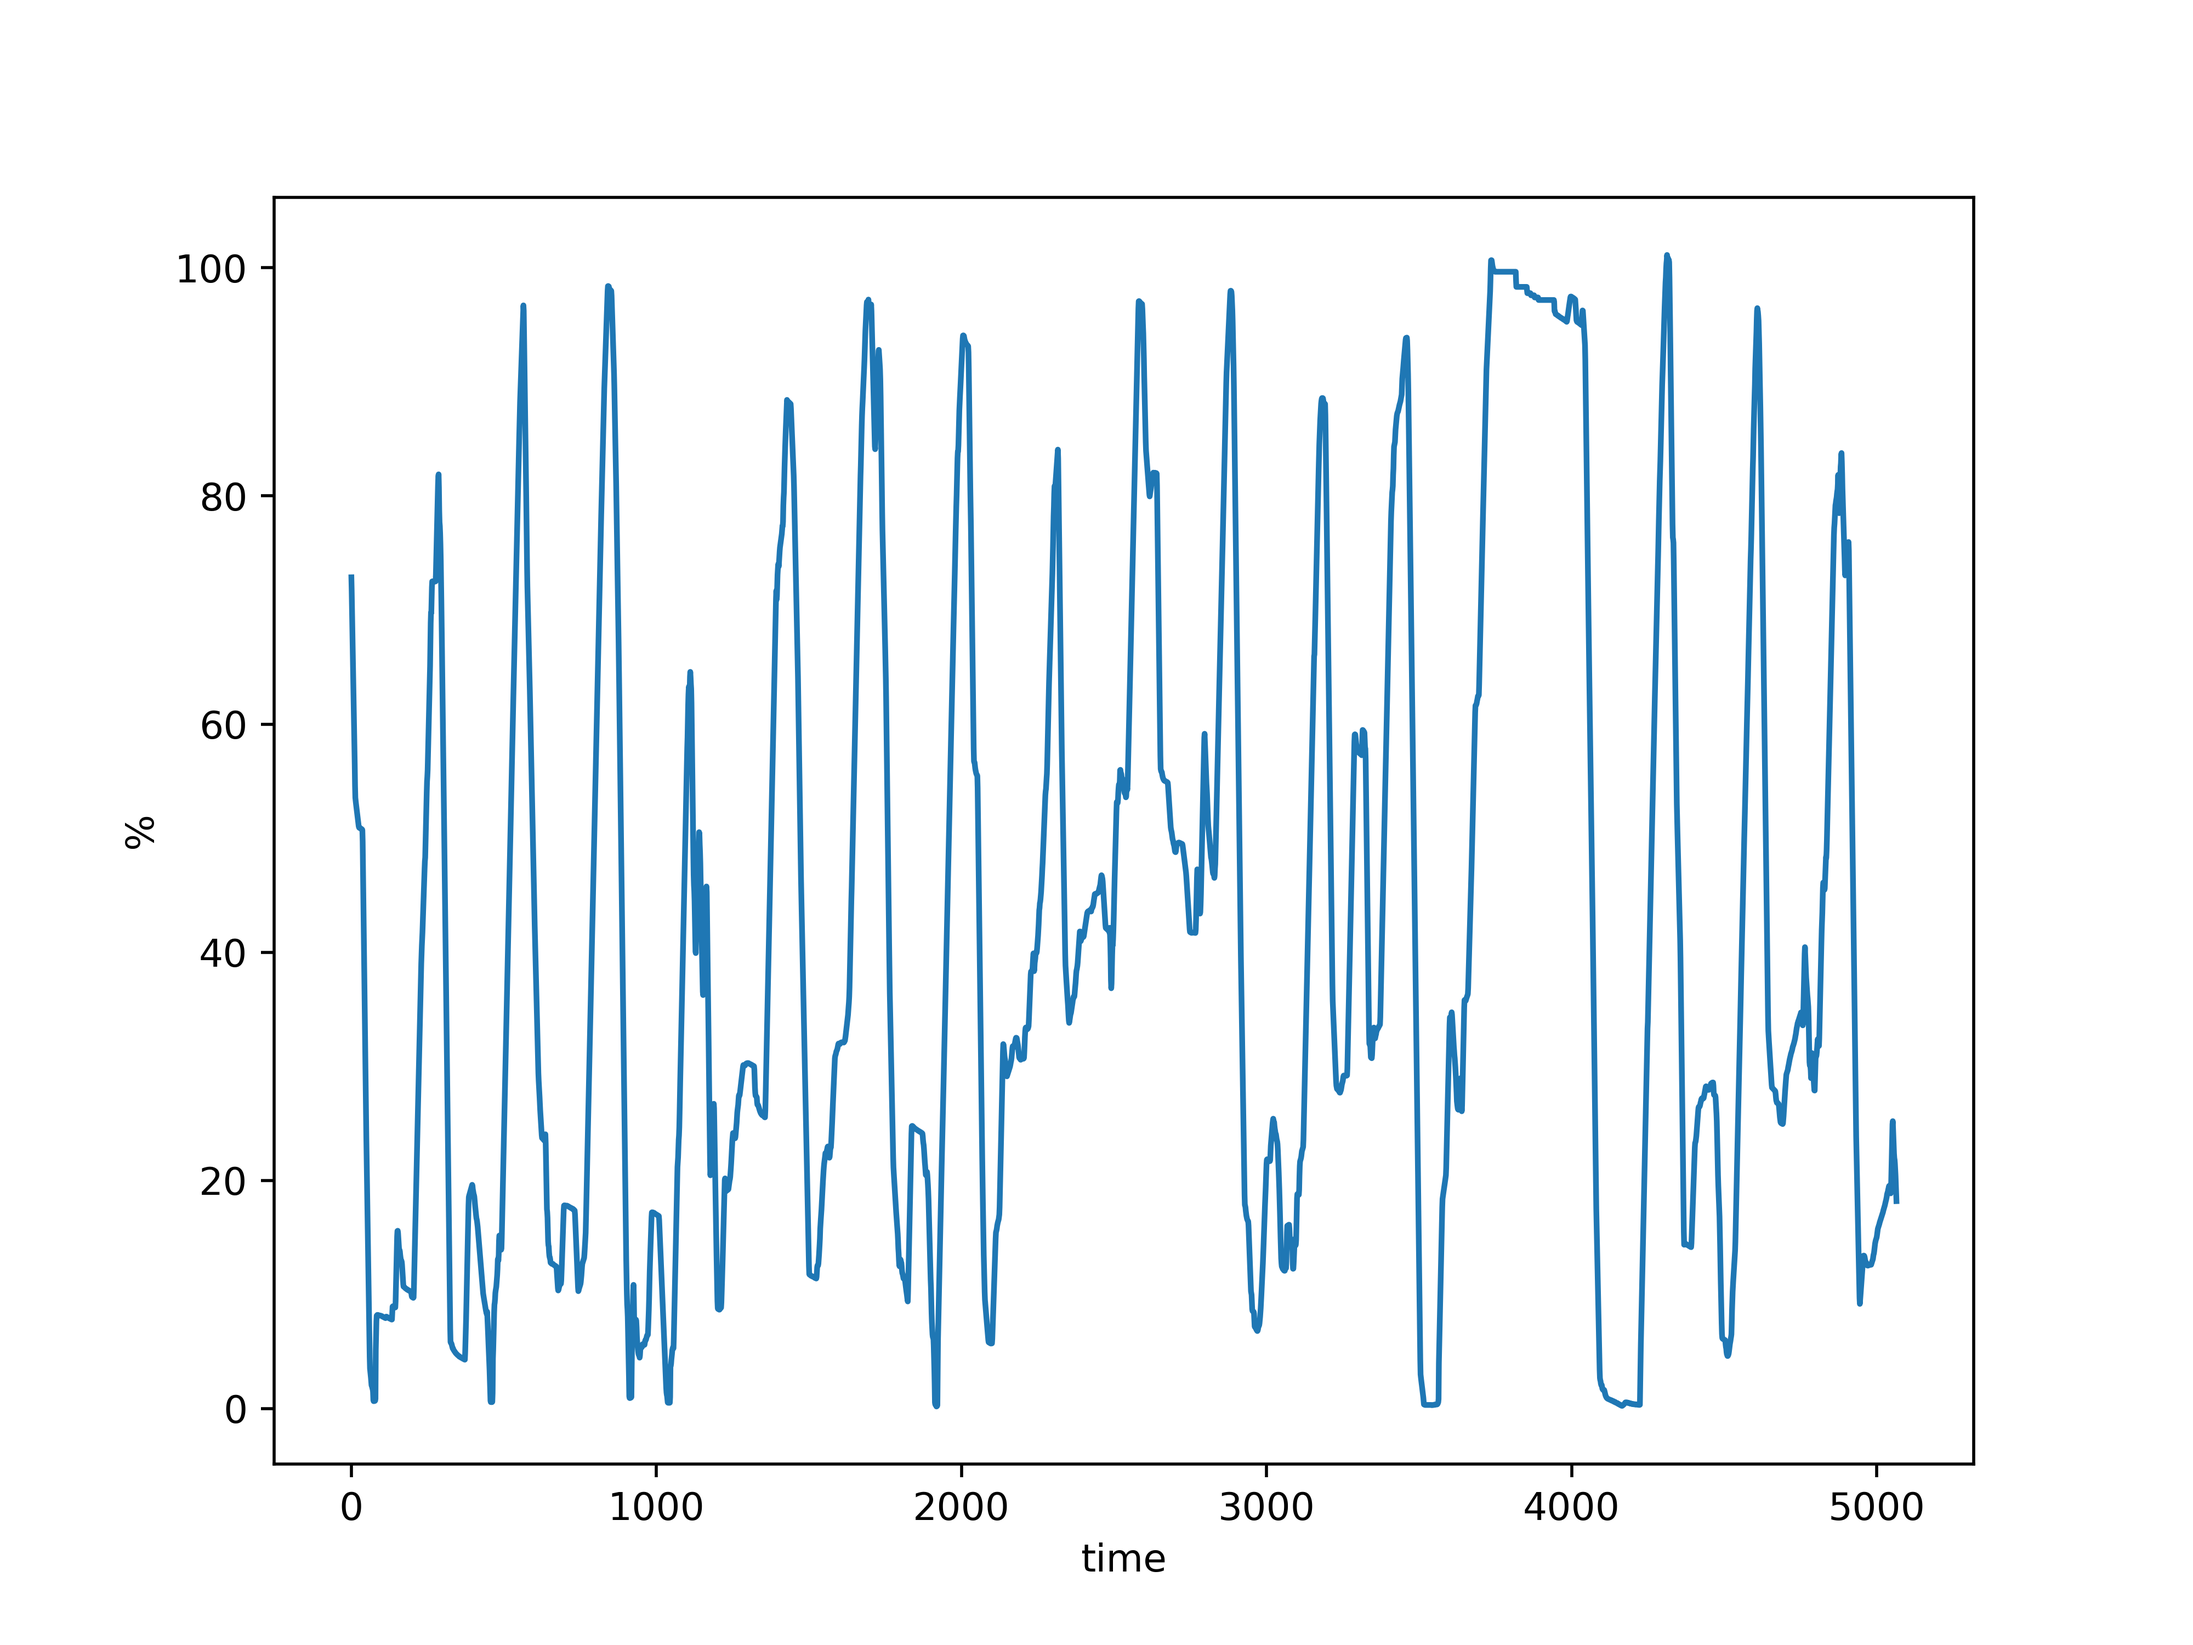
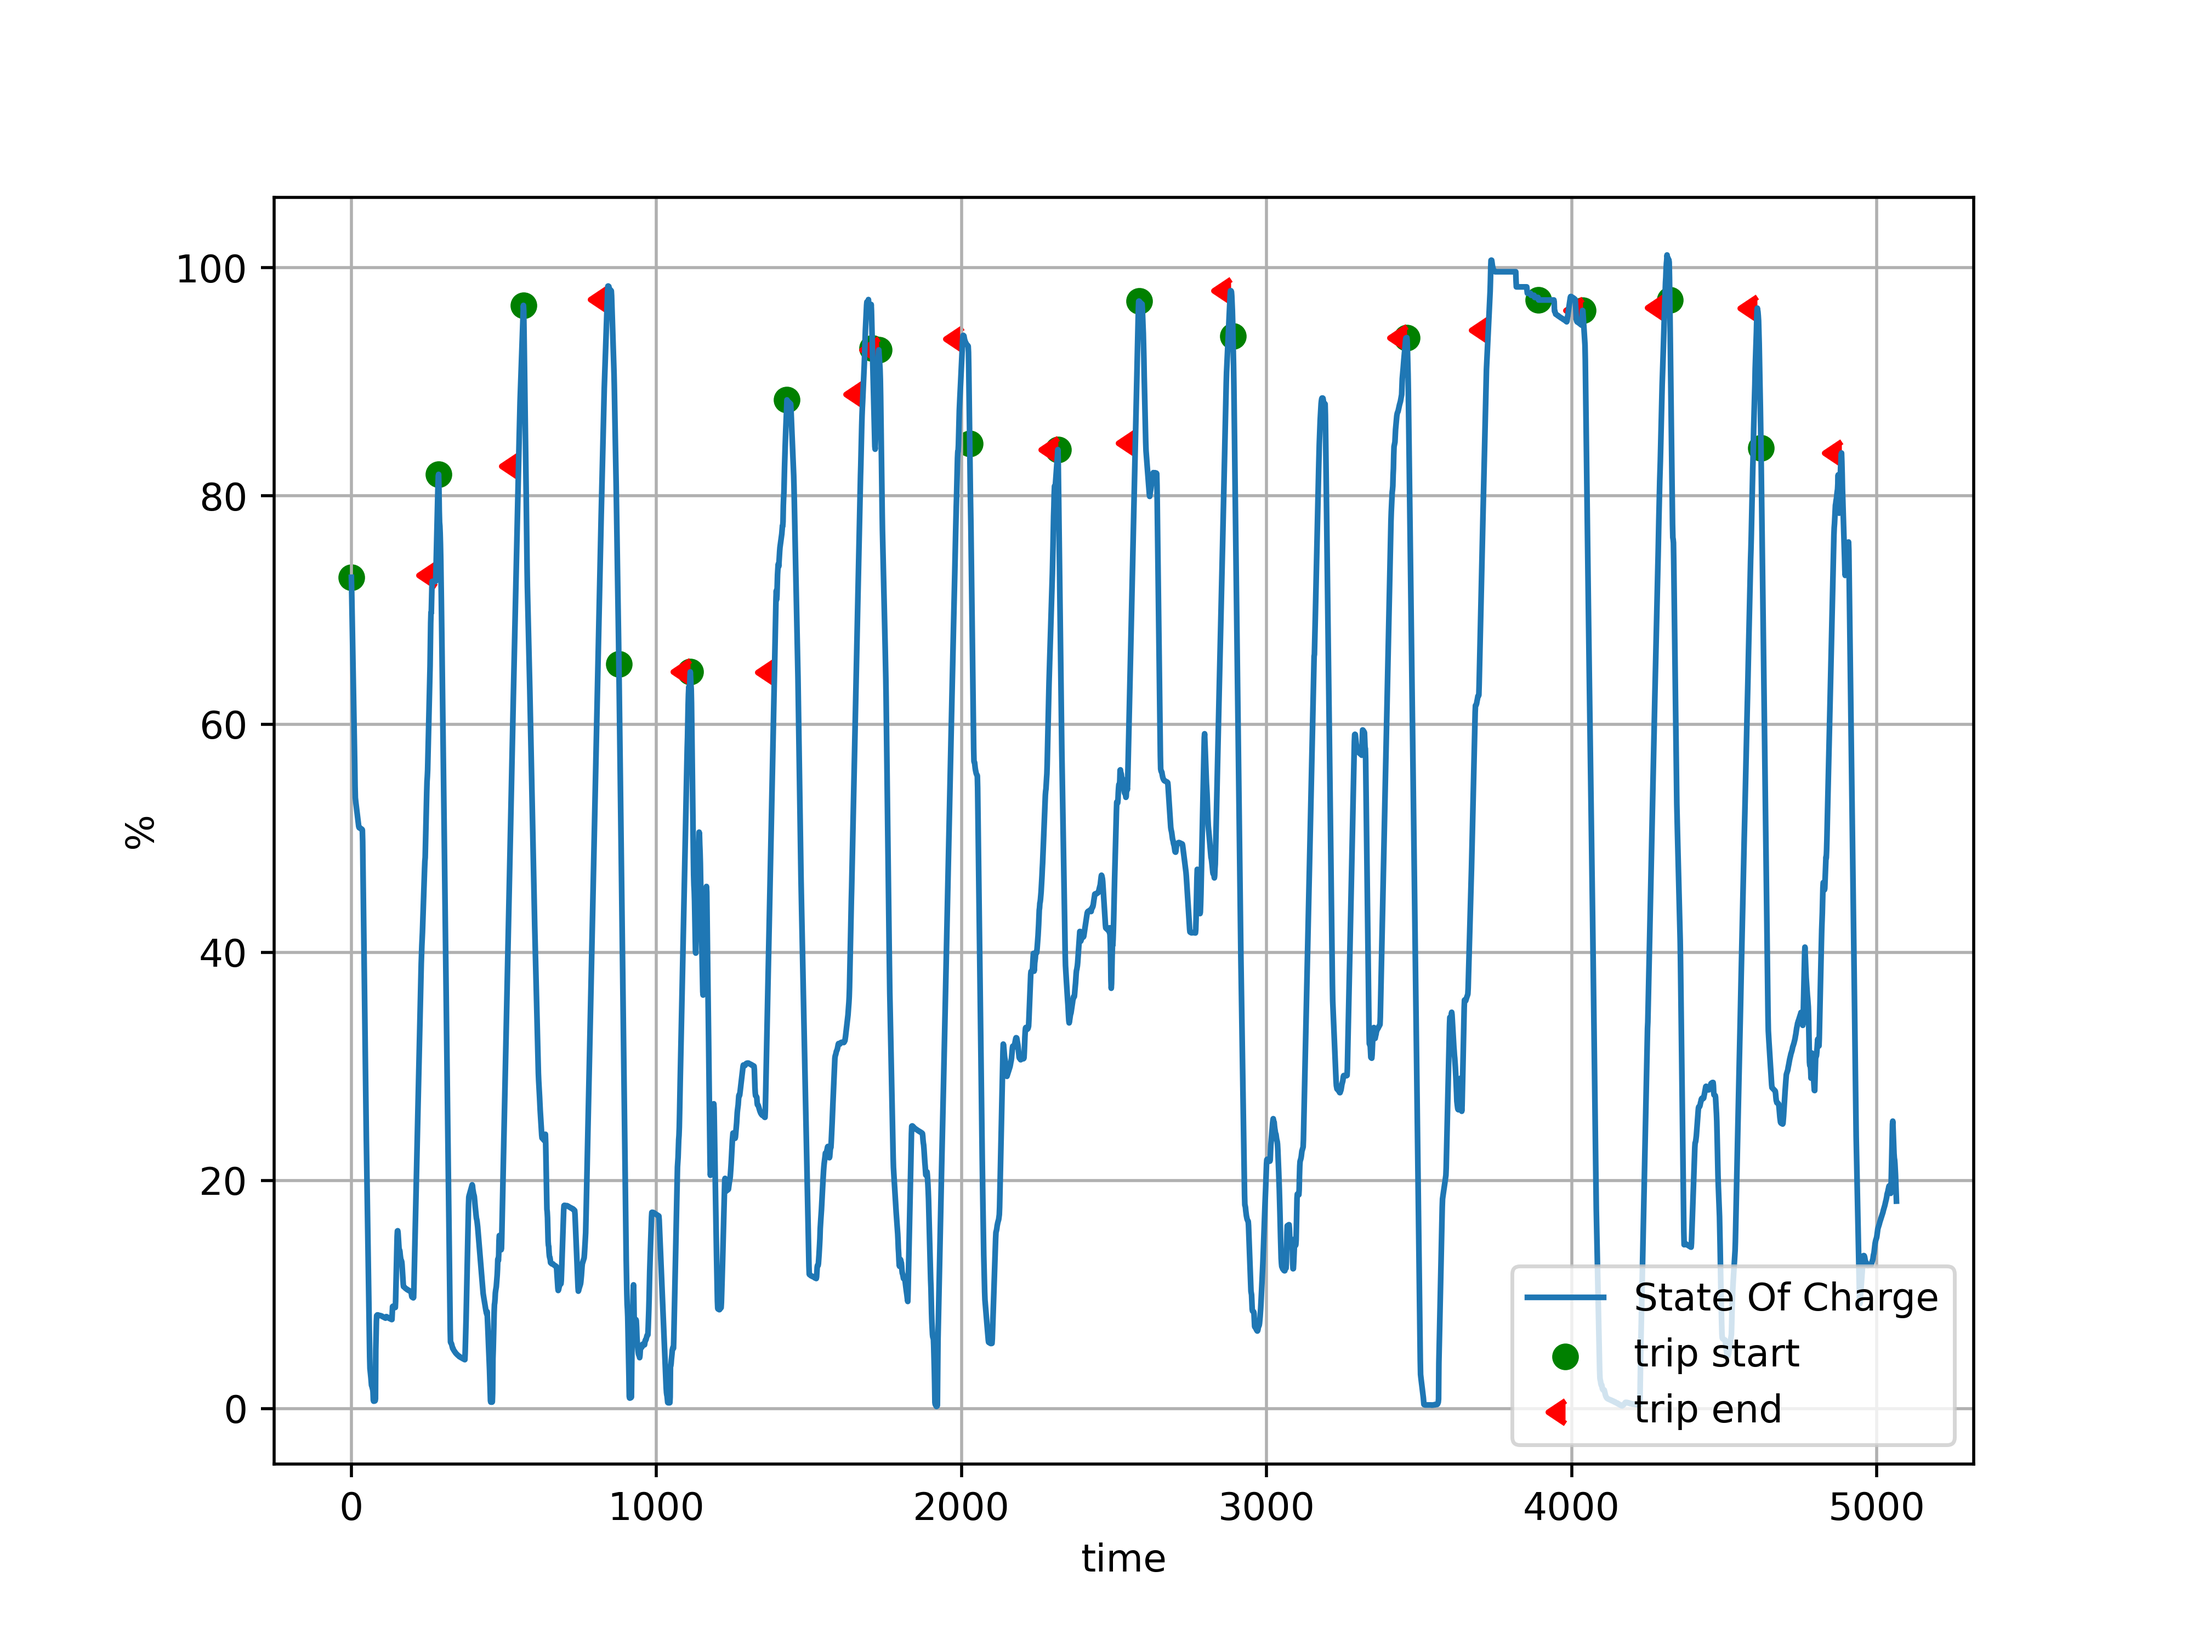
=...

diff --git a/Compute.py b/Compute.py
@@ -1,104 +1,78 @@
 import logging
-
 import Utilities
 from Utilities import init_logging, get_data
 from math import nan, isnan
 import numpy as np
 
 
-def get_local_extremes(soc_ls, k=30):
-    # Param. k: time slots of monotonic increase of the SOC followed by monotonic decrease
-
-    local_maxima_indices = [0]  # the start is included
-    local_minima_indices = []
-    # l1 = [5, 4, 3, 2, 1, 2, 3, 4, 5, 6, 7, 8, 9, 8, 7, 6, 5, 4, 3, 2, 1, 2, 3, 4, 5, 6, 5, 4, 3]  # debug
-    # y3_soc = l1
-    for i in range(k,len(soc_ls)-k):
-        prev = soc_ls[i-k:i]
-        next = soc_ls[i+1:i+k+1]
-        if all([soc_ls[i] > soc for soc in prev]):
-            if all([soc_ls[i] > soc for soc in next]):
-                local_maxima_indices.append(i)
-        if all([soc_ls[i] < soc for soc in prev]):
-            if all([soc_ls[i] < soc for soc in next]):
-                local_minima_indices.append(i)
-
-    return local_maxima_indices, local_minima_indices
-
-
-def process_roundtrips_stack():
-    Utilities.init_logging("roundtrips_oldstack.log")
-    y1_ed, y2_er, y3_soc = Utilities.get_data()
-    lmax_indices, lmin_indices = get_local_extremes(y3_soc)
-    trip_endpoints = []   # for graphics
-
-    stack_of_trips = []
-    completed_trips = []
-    # trip: tuple of (indices_ls, starting_lmax, energy_delivered_values_ls, energy_retrieved_values_ls)
-
-    passed_lmin = False
-    for i in range(len(y3_soc)):
-        current_value = y3_soc[i]
-        # is it a starting point for a trip?
-        if i in lmax_indices:
-            logging.info("Starting trip at i=" + str(i))
-            stack_of_trips.append(([i], current_value,  [y1_ed[i]], [y2_er[i]]))
-            passed_lmin = False
-        elif i in lmin_indices:
-            logging.info("Passed local minimum at i=" + str(i))
-            passed_lmin = True
-        # is it the ending point of a trip? It must have gone beyond a minimum, with both discharge and recharge
-        elif len(stack_of_trips) > 0:  # check that we are in a trip
-            if passed_lmin and (abs(current_value - stack_of_trips[-1][1]) < 0.5):
-                logging.info("Ending trip that started at " + str(stack_of_trips[-1][0][0]) + ", at i=" + str(i))
-                completed_trips.append(stack_of_trips.pop())
-                trip_endpoints.append(i)
-            else:  # general case: add e.r. and e.d. to the dictionary of the current trip
-                current_trip = stack_of_trips[-1]
-                if not(isnan(y1_ed[i])) and not(isnan(y1_ed[i])):
-                    current_trip[0].append(i)
-                    current_trip[2].append(y1_ed[i])
-                    current_trip[3].append(y1_ed[i])
-
-    return completed_trips, trip_endpoints
-
-
 class Trip:
-    def __init__(self):
-        self.start_idx = 0
+    def __init__(self, start_idx):
+        self.start_idx = start_idx
         self.end_idx = 0
         self.energy_delivered = 0
         self.energy_received = 0
 
 
-def get_simple_trips(epsilon=1):
-    Utilities.init_logging("simple_trips.log")
+def get_local_max(soc_ls, k=20, min_value=60):
+    # Parameters: k = time slots of monotonic increase of the SOC followed by monotonic decrease
+    #             min_value = the minimum SOC value for a point to be recognized as a local maximum
+
+    local_maxima_indices = [0]  # the start is included
+
+    for i in range(k,len(soc_ls)-k):
+        prev = soc_ls[i-k:i]
+        next = soc_ls[i+1:i+k+1]
+        if all([soc_ls[i] > soc for soc in prev]):
+            if all([soc_ls[i] > soc for soc in next]):
+                if soc_ls[i] > min_value:
+                    local_maxima_indices.append(i)
+
+    return local_maxima_indices
+
+
+def conclude_trip(end_idx, trip, y1_ed, y2_er, y3_soc):
+    proposed_endpoint_soc = y3_soc[end_idx]
+    if abs(y3_soc[trip.start_idx] - proposed_endpoint_soc) < 1:
+        trip.end_idx = end_idx
+    else:  # we must change the extremes of the roundtrip. Either:
+        if proposed_endpoint_soc >= y3_soc[trip.start_idx]:  # 1) backtrack
+            for j in range(end_idx, trip.start_idx , -1):
+                if abs(y3_soc[trip.start_idx] - y3_soc[j]) < 1:
+                    trip.end_idx = j
+                    break
+                trip.end_idx = None
+        else:  # 2) bring the starting index forward
+            for s in range(trip.start_idx, end_idx):
+                trip.end_idx = end_idx  # endpoint unchanged
+                if abs(y3_soc[s] - y3_soc[end_idx]) < 1:
+                    trip.start_idx = s
+                    break
+                trip.start_idx = None  # if there is no way to obtain a valid trip (e.g. at the end of the SOC line)
+
+    # update the values of energy delivered and energy retrieved
+    trip.energy_delivered = y1_ed[trip.end_idx] - y1_ed[trip.start_idx]
+    trip.energy_received = y2_er[trip.end_idx] - y2_er[trip.start_idx]
+
+    return trip
+
+
+def process_roundtrips():
     y1_ed, y2_er, y3_soc = Utilities.get_data()
+    lmax_indices = get_local_max(y3_soc)
 
-    trips_ls = []
+    trips_ls = [Trip(0)]
 
-    starting_idx = 0
-    starting_charge_state = y3_soc[0]
-    starting_ed = y1_ed[0]
-    starting_er = y2_er[0]
-    # stop_points = [0]
+    for i in range(1,len(y3_soc)):
+        trip = trips_ls[-1]  # select the current trip
+        # if we have to start a new trip from a local maximum: conclude the previous one, record its energy values
+        if i in lmax_indices:
+            conclude_trip(i, trip, y1_ed, y2_er, y3_soc)
+            if i != max(lmax_indices):
+                new_trip = Trip(i)
+                trips_ls.append(new_trip)
 
-    for i in range(1, len(y3_soc)):
-        current_charge_state = y3_soc[i]
-        current_ed = y1_ed[i]
-        current_er = y2_er[i]
-        if i > starting_idx+15 and (abs(current_charge_state-starting_charge_state) < epsilon):
-            logging.debug("current_charge_state = " + str(current_charge_state))
-            logging.debug("starting_charge_state = " + str(starting_charge_state))
-            trip = Trip()
-            trip.start_idx = starting_idx
-            trip.end_idx = i
-            trip.energy_delivered = current_ed - starting_ed
-            trip.energy_received = current_er - starting_er
-            trips_ls.append(trip)
-            # then, re-initialize for the next trip
-            starting_idx = i
-            starting_ed = current_ed
-            starting_er = current_er
+    trips_ls = [t for t in trips_ls if t.start_idx is not None and t.end_idx is not None]
 
-    return trips_ls[0:-1]  # exclude the last
+    return trips_ls
+
+

diff --git a/Graphics.py b/Graphics.py
@@ -7,14 +7,6 @@ from math import nan
 
 def fig_dataset():
 
-    # The data
-    # Timestamp: The date and time of the measurement.
-    # Energy Received: The energy (in kWh) received from the power grid, i.e. the energy going into the battery
-    # Energy Delivered: The energy (in kWh) delivered to the power grid, taken from the battery when it is being discharged
-    # SOC (State Of Charge): State of Charge of the battery. 0% when empty, 100% when fully charged.
-    # This value is average over the measured period, in this case it is average over 5-mins interval.
-    # Observation: missing values are nan
-
     y1_ed, y2_er, y3_soc = Utilities.get_data()
     x = list(range(len(y1_ed)))
 
@@ -35,12 +27,13 @@ def fig_dataset():
     fig.show()
 
 
-def plot_l_extremes():
+def plot_trip_extremes():
     _y1_ed, _y2_er, y3_soc = Utilities.get_data()
     x = list(range(len(y3_soc)))
 
-    lmax_indices, lmin_indices = Compute.get_local_extremes(y3_soc)
-    completed_trips, trip_endpoints = Compute.process_roundtrips_stack()
+    trips = Compute.process_roundtrips()
+    trip_starts = [t.start_idx for t in trips]
+    trip_ends = [t.end_idx for t in trips]
 
     fig = plt.figure(figsize=(8, 6))
     ax = plt.gca()
@@ -51,58 +44,21 @@ def plot_l_extremes():
 
     y_scatter = []
     for i in range(len(y3_soc)):
-        if i in lmax_indices:
+        if i in trip_starts:
             y_scatter.append(y3_soc[i])
         else:
             y_scatter.append(nan)
-    plt.scatter(x, y_scatter, color='green')
+    plt.scatter(x, y_scatter, color='green', marker="o", label="trip start")
 
     y_scatter2 = []
     for i in range(len(y3_soc)):
-        if i in lmin_indices:
+        if i in trip_ends:
             y_scatter2.append(y3_soc[i])
         else:
             y_scatter2.append(nan)
-    plt.scatter(x, y_scatter2, color='yellow')
+    plt.scatter(x, y_scatter2, color='red', marker=8, label="trip end")
 
-    y_scatter3 = []
-    for i in range(len(y3_soc)):
-        if i in trip_endpoints:
-            y_scatter3.append(y3_soc[i])
-        else:
-            y_scatter3.append(nan)
-    plt.scatter(x, y_scatter3, color='red')
-    
-    ax.legend()
+    ax.legend(loc=4)
     plt.grid()
-    plt.savefig("figure_local_extremes.png", dpi=500)
-    fig.show()
-
-
-def plot_simple_trips():
-    _y1_ed, _y2_er, y3_soc = Utilities.get_data()
-    x = list(range(len(y3_soc)))
-
-    trips = Compute.get_simple_trips()
-
-    fig = plt.figure(figsize=(8, 6))
-    ax = plt.gca()
-    ax.set_xlabel("time")
-    ax.set_ylabel("%")
-
-    ax.plot(x, y3_soc, label="State Of Charge")
-
-    trips_extremes = [trip.start_idx for trip in trips]
-    y_scatter = []
-    for i in range(len(y3_soc)):
-        if i in trips_extremes:
-            y_scatter.append(y3_soc[i])
-        else:
-            y_scatter.append(nan)
-    plt.scatter(x, y_scatter, color='green')
-
-
-    ax.legend()
-    plt.grid()
-    plt.savefig("figure_simple_trips.png", dpi=500)
+    plt.savefig("figure_trips.png", dpi=500)
     fig.show()

diff --git a/rte.py b/rte.py
@@ -1,4 +1,4 @@
-import pandas as pd
+import numpy as np
 import Utilities
 import Compute
 from math import isnan
@@ -46,9 +46,11 @@ def check_assumptions():
     return a1_not_true_idx, a2_not_true_idx
 
 
+
+
 def exe():
     Utilities.logging.info("rte.log")
-    trips = Compute.get_simple_trips()
+    trips = Compute.process_roundtrips()
 
     rte_ls = []
     for trip in trips:
@@ -56,5 +58,9 @@ def exe():
         rte_ls.append(trip_efficiency)
 
     logging.info("Trips efficiency: " + str(rte_ls))
-    avg_eff = sum(rte_ls) / len(rte_ls)
-    logging.info("Average trip efficiency = " + str(avg_eff))
+
+    max_trip_ed = max([])
+
+    efficiency = [(trips[i].energy_delivered / trips[i].energy_received) for i in range(len(trips))]
+    weighted_avg = sum([weights[i]*efficiency[i] for i in range(len(efficiency))])
+    logging.info("Trip efficiency: weighted average by trip length = " + str(weighted_avg))
